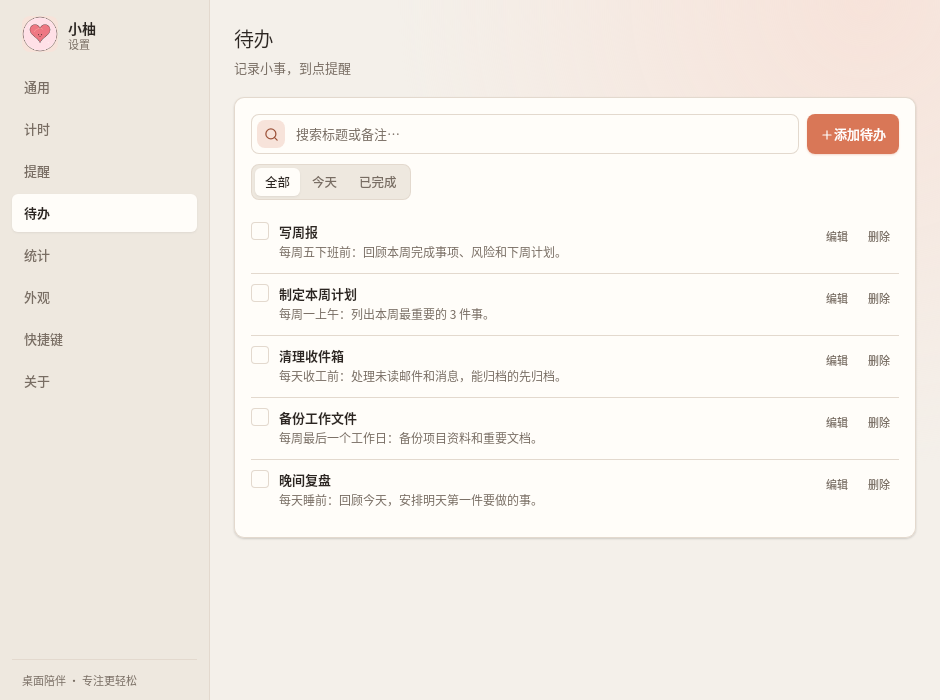
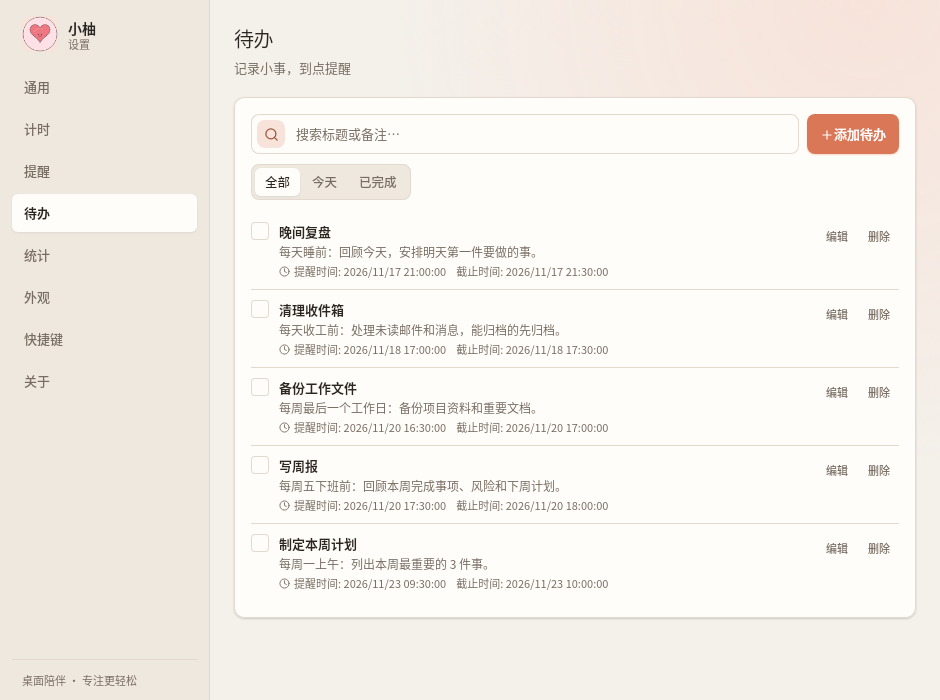
refactor(todo): 拆分时间字段并更新待办截图
- 抽取重复的提醒/截止时间字段为 TodoTimeField，TodoForm 只负责表单编排
- 将 TodoTimeKind 移入 types/todo.ts 并统一导出
- 拆分 Mock 计时启动逻辑为 mock/timer-start.ts，timer.ts 保留命令分发
- 待办列表同时展示提醒时间与截止时间，5 条现有待办已补齐时间
- 更新拆分审计、目录结构与待办页截图

diff --git a/frontend/src/lib/ipc/mock/timer.ts b/frontend/src/lib/ipc/mock/timer.ts
@@ -1,6 +1,7 @@
 import type { TimerPhase, TimerSnapshot, TimerStartRequest } from '../../../types';
 import { IpcError } from '../errors';
 import { readMockSettings } from './settings';
+import { startTimerPatch } from './timer-start';
 
 let mockTimer: TimerSnapshot = {
   kind: 'pomodoro',
@@ -28,63 +29,7 @@ function mockStartTimer(request: TimerStartRequest): TimerSnapshot {
   if (mockTimer.status !== 'idle' || mockTimer.phase !== null) {
     throw new IpcError('TIMER_CONFLICT', 'A timer is already active');
   }
-  const settings = readMockSettings();
-  if (request.kind === 'pomodoro') {
-    const total = settings.pomodoro.focusMin * 60;
-    return setMockTimer({
-      kind: 'pomodoro',
-      phase: 'focus',
-      status: 'running',
-      totalSec: total,
-      remainingSec: total,
-      startedAt: new Date().toISOString(),
-      endsAt: new Date(Date.now() + total * 1000).toISOString(),
-      roundsCompleted: 0,
-      roundsTotal: settings.pomodoro.rounds,
-      sessionId: null,
-    });
-  }
-  if (request.kind === 'focus') {
-    const total = request.minutes * 60;
-    return setMockTimer({
-      kind: 'pomodoro',
-      phase: 'focus',
-      status: 'running',
-      totalSec: total,
-      remainingSec: total,
-      startedAt: new Date().toISOString(),
-      endsAt: new Date(Date.now() + total * 1000).toISOString(),
-      roundsCompleted: 0,
-      roundsTotal: settings.pomodoro.rounds,
-      sessionId: null,
-    });
-  }
-  if (request.kind === 'countdown') {
-    return setMockTimer({
-      kind: 'countdown',
-      phase: null,
-      status: 'running',
-      totalSec: request.seconds,
-      remainingSec: request.seconds,
-      startedAt: new Date().toISOString(),
-      endsAt: new Date(Date.now() + request.seconds * 1000).toISOString(),
-      roundsCompleted: 0,
-      roundsTotal: 0,
-      sessionId: null,
-    });
-  }
-  return setMockTimer({
-    kind: 'countup',
-    phase: null,
-    status: 'running',
-    totalSec: 0,
-    remainingSec: 0,
-    startedAt: new Date().toISOString(),
-    endsAt: null,
-    roundsCompleted: 0,
-    roundsTotal: 0,
-    sessionId: null,
-  });
+  return setMockTimer(startTimerPatch(request, readMockSettings()));
 }
 
 function mockNextPhase(phase: TimerPhase | null): TimerPhase | null {
@@ -93,10 +38,7 @@ function mockNextPhase(phase: TimerPhase | null): TimerPhase | null {
   return null;
 }
 
-export function handleTimer<T>(
-  cmd: string,
-  args?: Record<string, unknown>,
-): Promise<T> | null {
+export function handleTimer<T>(cmd: string, args?: Record<string, unknown>): Promise<T> | null {
   switch (cmd) {
     case 'timer_snapshot':
       return Promise.resolve(mockTimer as T);

diff --git a/frontend/src/lib/ipc/mock/timer-start.ts b/frontend/src/lib/ipc/mock/timer-start.ts
@@ -1,0 +1,58 @@
+import type { TimerSnapshot, TimerStartRequest } from '../../../types';
+
+interface MockPomodoro {
+  rounds: number;
+  focusMin: number;
+}
+
+interface MockSettings {
+  pomodoro: MockPomodoro;
+}
+
+export function startTimerPatch(
+  request: TimerStartRequest,
+  settings: MockSettings,
+): Partial<TimerSnapshot> {
+  const startedAt = new Date().toISOString();
+  if (request.kind === 'pomodoro' || request.kind === 'focus') {
+    const total = request.kind === 'focus' ? request.minutes * 60 : settings.pomodoro.focusMin * 60;
+    return {
+      kind: 'pomodoro',
+      phase: 'focus',
+      status: 'running',
+      totalSec: total,
+      remainingSec: total,
+      startedAt,
+      endsAt: new Date(Date.now() + total * 1000).toISOString(),
+      roundsCompleted: 0,
+      roundsTotal: settings.pomodoro.rounds,
+      sessionId: null,
+    };
+  }
+  if (request.kind === 'countdown') {
+    return {
+      kind: 'countdown',
+      phase: null,
+      status: 'running',
+      totalSec: request.seconds,
+      remainingSec: request.seconds,
+      startedAt,
+      endsAt: new Date(Date.now() + request.seconds * 1000).toISOString(),
+      roundsCompleted: 0,
+      roundsTotal: 0,
+      sessionId: null,
+    };
+  }
+  return {
+    kind: 'countup',
+    phase: null,
+    status: 'running',
+    totalSec: 0,
+    remainingSec: 0,
+    startedAt,
+    endsAt: null,
+    roundsCompleted: 0,
+    roundsTotal: 0,
+    sessionId: null,
+  };
+}

diff --git a/frontend/src/windows/settings/panels/todo/TodoList.tsx b/frontend/src/windows/settings/panels/todo/TodoList.tsx
@@ -13,7 +13,13 @@ interface TodoListProps {
   onDelete: (todo: Todo) => void;
 }
 
-export const TodoList = memo(function TodoList({ todos, language, onToggle, onEdit, onDelete }: TodoListProps) {
+export const TodoList = memo(function TodoList({
+  todos,
+  language,
+  onToggle,
+  onEdit,
+  onDelete,
+}: TodoListProps) {
   if (todos.length === 0) {
     return <div className="empty">{t('settings.todos.empty')}</div>;
   }
@@ -31,15 +37,15 @@ export const TodoList = memo(function TodoList({ todos, language, onToggle, onEd
             <strong>{todo.title}</strong>
             {todo.note && <small>{todo.note}</small>}
             <div className="todo-meta">
-              {todo.dueAt && (
-                <span>
-                  {t('settings.todos.due')}: {new Date(todo.dueAt).toLocaleString()}
-                </span>
-              )}
               {todo.remindAt && (
                 <span className="inline-flex items-center gap-1">
                   <Clock size={11} aria-hidden="true" />
-                  {new Date(todo.remindAt).toLocaleString()}
+                  {t('settings.todos.remind')}: {new Date(todo.remindAt).toLocaleString()}
+                </span>
+              )}
+              {todo.dueAt && (
+                <span>
+                  {t('settings.todos.due')}: {new Date(todo.dueAt).toLocaleString()}
                 </span>
               )}
             </div>

diff --git a/frontend/src/windows/settings/panels/todo/TodoForm.tsx b/frontend/src/windows/settings/panels/todo/TodoForm.tsx
@@ -1,5 +1,5 @@
 import { ClearButton } from '../../../../components/ui/ClearButton';
-import { DateTimePicker } from '../../../../components/ui/DateTimePicker';
+import { TodoTimeField } from './TodoTimeField';
 import { Input, Textarea } from '../../../../components/ui/Input';
 import { t } from '../../../../lib/i18n';
 
@@ -50,24 +50,8 @@ export function TodoForm({
         {note && <ClearButton onClick={() => onNoteChange('')} />}
       </div>
       <div className="todo-time-grid">
-        <div className="todo-time-field">
-          <span>{t('settings.todos.remind')}</span>
-          <DateTimePicker
-            value={remind}
-            onChange={onRemindChange}
-            label={t('settings.todos.remind')}
-            placeholder={t('settings.todos.datePlaceholder')}
-          />
-        </div>
-        <div className="todo-time-field">
-          <span>{t('settings.todos.due')}</span>
-          <DateTimePicker
-            value={due}
-            onChange={onDueChange}
-            label={t('settings.todos.due')}
-            placeholder={t('settings.todos.datePlaceholder')}
-          />
-        </div>
+        <TodoTimeField kind="remind" value={remind} onChange={onRemindChange} />
+        <TodoTimeField kind="due" value={due} onChange={onDueChange} />
       </div>
       {error && <p className="form-error">{error}</p>}
     </div>

diff --git a/frontend/src/windows/settings/panels/todo/TodoTimeField.tsx b/frontend/src/windows/settings/panels/todo/TodoTimeField.tsx
@@ -1,0 +1,24 @@
+import { DateTimePicker } from '../../../../components/ui/DateTimePicker';
+import { t } from '../../../../lib/i18n';
+import type { TodoTimeKind } from '../../../../types';
+
+interface TodoTimeFieldProps {
+  kind: TodoTimeKind;
+  value: string;
+  onChange: (value: string) => void;
+}
+
+export function TodoTimeField({ kind, value, onChange }: TodoTimeFieldProps) {
+  const label = t(`settings.todos.${kind}`);
+  return (
+    <div className="todo-time-field">
+      <span>{label}</span>
+      <DateTimePicker
+        value={value}
+        onChange={onChange}
+        label={label}
+        placeholder={t('settings.todos.datePlaceholder')}
+      />
+    </div>
+  );
+}

diff --git a/frontend/src/types/index.ts b/frontend/src/types/index.ts
@@ -26,7 +26,7 @@ export type {
   TimerStartRequest,
   TimerStatus,
 } from './timer';
-export type { Todo, TodoFilter, TodoInput } from './todo';
+export type { Todo, TodoFilter, TodoInput, TodoTimeKind } from './todo';
 export type { ReminderPayload, ReminderRow } from './reminder';
 export type { DailyStat, StatsRange, StatsResult } from './stats';
 export type { DatePickerMode, DatePickerPosition } from './datePicker';

diff --git a/frontend/src/types/todo.ts b/frontend/src/types/todo.ts
@@ -19,3 +19,5 @@ export interface TodoInput {
   dueAt?: string | null;
   remindAt?: string | null;
 }
+
+export type TodoTimeKind = 'remind' | 'due';

diff --git a/docs/06-代码拆分与目录结构.md b/docs/06-代码拆分与目录结构.md
@@ -1,6 +1,6 @@
 # 06 · 代码拆分与目录结构
 
-> 日期：2026-11-13
+> 日期：2026-11-17
 > 范围：前端 React/TypeScript、后端 Rust/Tauri 与样式层
 > 目标：页面/组件/业务文件不超过 150 行；重复 UI 抽公共组件；业务逻辑进 hooks；共享类型放 types/。
 
@@ -71,6 +71,8 @@ frontend/src/
 │   ├── ipc/
 │   │   ├── core.ts / api.ts / errors.ts / defaults.ts / index.ts
 │   │   └── mock/                     # 浏览器开发模拟
+│   │       ├── timer.ts              # mock 命令分发/快照状态
+│   │       └── timer-start.ts        # mock 计时启动补丁
 │   ├── datePicker.ts                 # 日期计算/格式化
 │   ├── appIcons.ts                   # 内置图标与保留名称
 │   ├── petSkins.ts
@@ -94,11 +96,12 @@ frontend/src/
 │   └── overlays.css
 └── windows/
     ├── pet/                          # Windows/macOS PetWindow / PetStage / Canvas 渲染
-    ├── native_pet/                   # Linux GTK/Cairo 原生角色窗口（Rust）
     ├── bubble/                       # BubbleWindow / BubbleShell / TimerCard / ReminderCard
     ├── settings/                     # SettingsWindow + 8 个功能面板
     └── onboarding/                   # 三步引导 + Header / Footer
 ```
+
+待办表单的重复时间字段抽为 `windows/settings/panels/todo/TodoTimeField.tsx`；`TodoTimeKind` 等共享类型放在 `types/todo.ts`。
 
 ### 2.1 前端拆分记录
 
@@ -117,6 +120,19 @@ frontend/src/
 | `forms.css` 183 行 | `styles/forms/inputs.css` + `styles/forms/controls.css` |
 | `Select` / `DatePickerPopover` 175 / 170 行 | `select/` hooks + `DatePickerHeader` + `DatePickerTimeFooter` |
 | 页面直接数据请求 | hooks + `lib/ipc/api.ts` |
+
+### 2.2 2026-11-17 拆分审计
+
+| 检查项 | 结果 |
+|---|---|
+| `frontend/src` / `backend/src` 单文件 > 200 行 | 无 |
+| 页面/组件源文件上限 | 全部 ≤ 150 行；最大为 `native_pet/draw.rs` 150 行 |
+| 重复 2 次以上的日期字段 | 抽出 `TodoTimeField`，待办新增/编辑共用 |
+| Mock 计时启动逻辑 157 行 | 拆为 `mock/timer.ts`（命令分发）与 `mock/timer-start.ts`（启动补丁） |
+| 待办表单时间字段类型 | `TodoTimeKind` 移入 `types/todo.ts` |
+| 后端通知语言判断重复 | 集中到 `language.rs`，计时/提醒/待办共用 |
+
+拆分原则：页面/窗口只编排布局；表单与交互状态放 hooks；共享 UI 放 `components/`；共享类型放 `types/`；后端按领域模块拆分，commands 只做薄调度。
 
 ---
 
@@ -153,6 +169,8 @@ backend/src/
 │   ├── service/                      # 状态机 / 拖拽 / 随机行为
 │   └── runtime.rs
 ├── types/                            # 全部 IPC/领域类型
+├── native_pet/                       # Linux GTK/Cairo 原生角色窗口
+├── language.rs                       # 后端通知/菜单语言解析
 ├── app_icon.rs                       # 图标主题加载/窗口/托盘
 ├── desktop_icon.rs                   # Linux 桌面入口与图标缓存刷新
 ├── desktop_icon/theme.rs             # hicolor 图标主题缓存刷新

diff --git a/CHANGELOG.md b/CHANGELOG.md
@@ -40,6 +40,7 @@
 - 气泡快捷时长改为“先选中、再点击开始专注启动”；点击 15/25 等选项不会立即进入专注，开始专注按钮按选中时长启动。
 - 跳过当前计时后回到专注准备气泡，不再留下待开始的下一阶段计时；待办弹窗调整为“提醒时间”在左、“截止时间”在右。
 - 系统通知在触发时按当前界面/系统语言生成文案，切换英文后通知标题和正文同步更新。
+- 完成前后端代码拆分审计：所有页面/后端源文件 ≤150 行、无 >200 行文件；重复时间字段抽为 TodoTimeField，Mock 计时启动拆为 timer-start.ts。
 - README 与交互、技术、性能和角色文档同步原生 Linux 渲染与当前界面截图。
 - 系统通知使用当前应用图标的独立路径，切换图标后通知图标同步更新。
 - 点击穿透改用原生输入区域，切换后立即可穿透/恢复，锁标识同步显示。
